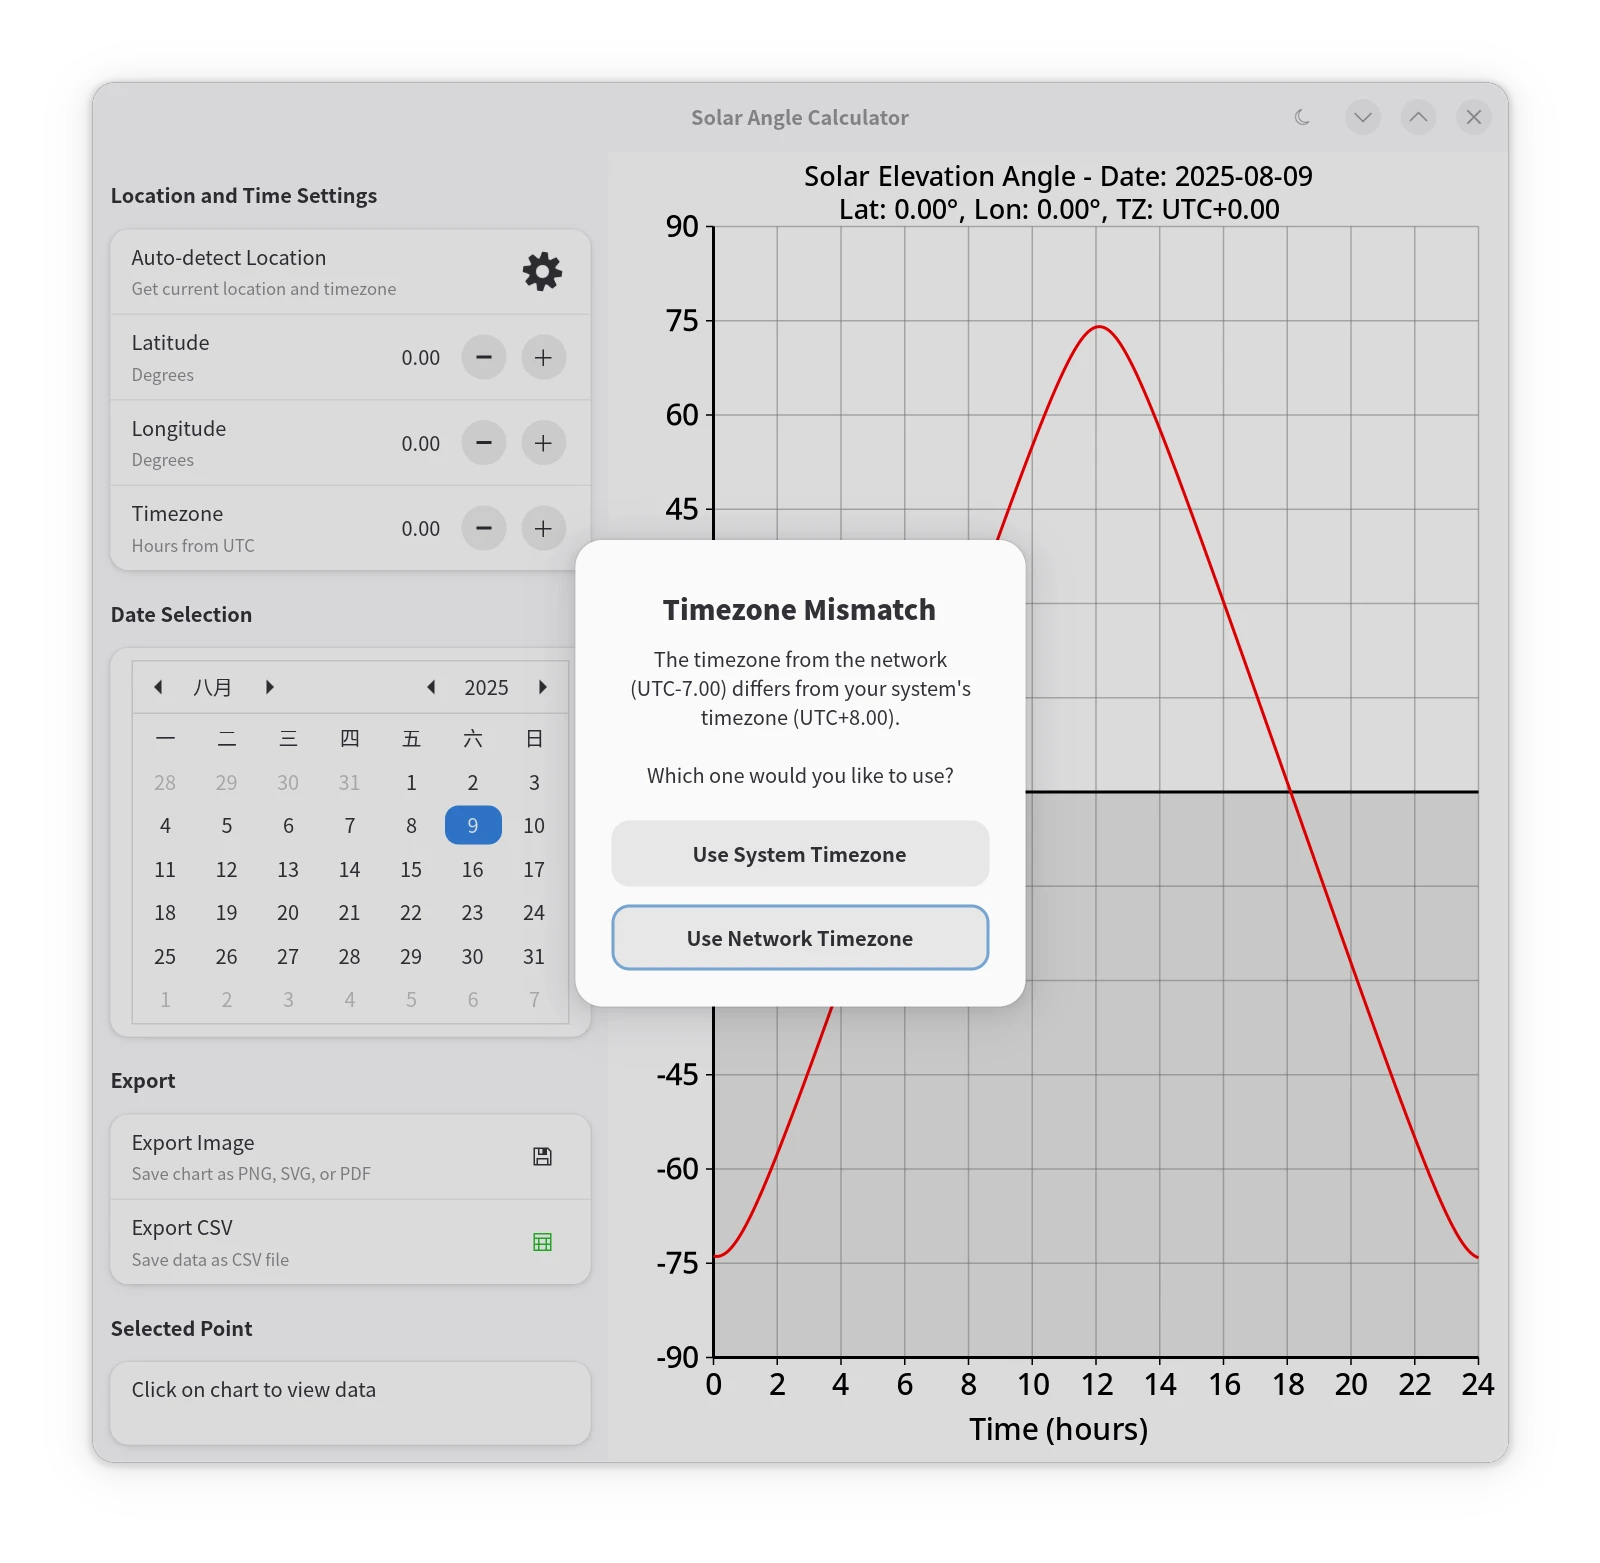
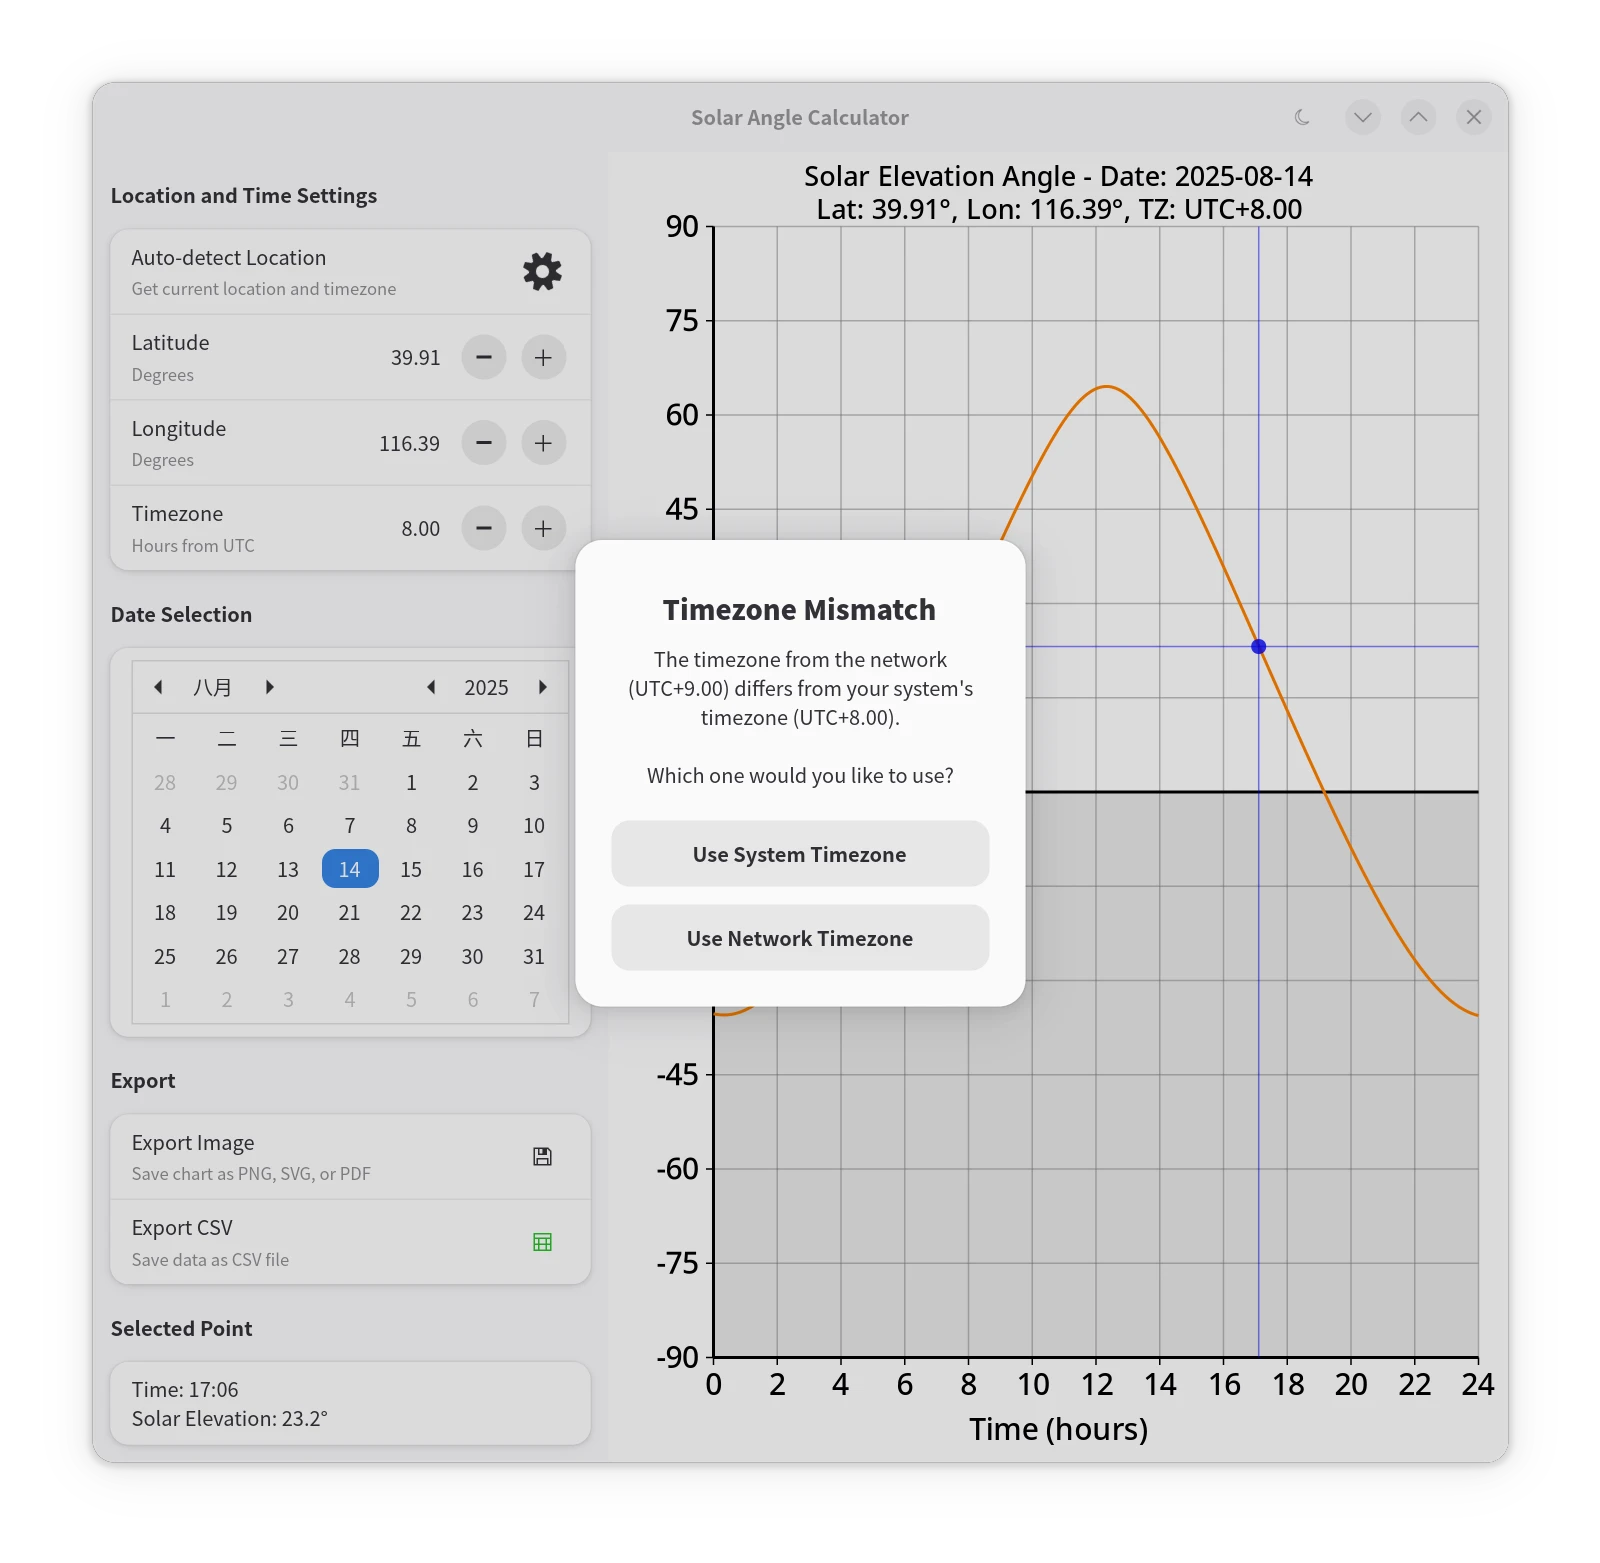
调整曲线颜色以改善图表可读性

diff --git a/_posts/2025-08-07-GTK-Vala-Tutorial-3.md b/_posts/2025-08-07-GTK-Vala-Tutorial-3.md
@@ -21,7 +21,7 @@ tags:       开源软件 GTK Vala
 
 本教程将以笔者实现的[“太阳高度角计算器”](https://github.com/wszqkzqk/FunValaGtkExamples/blob/master/solarangle.vala)的完整应用为例，深入剖析其从概念设计到功能实现的每一个环节。这个应用不仅能进行科学计算，还拥有一个使用 LibAdwaita 构建的、支持深色模式的现代化用户界面，并具备异步网络请求、JSON 解析、自定义绘图和文件导出等高级功能。
 
-| [![#~/img/GTK-examples/pku-light-solar-angle-250807.webp](/img/GTK-examples/pku-light-solar-angle-250807.webp)](/img/GTK-examples/pku-light-solar-angle-250807.webp) | [![#~/img/GTK-examples/pku-dark-solar-angle-250807.webp](/img/GTK-examples/pku-dark-solar-angle-250807.webp)](/img/GTK-examples/pku-dark-solar-angle-250807.webp) |
+| [![#~/img/GTK-examples/pku-light-solar-angle-250814.webp](/img/GTK-examples/pku-light-solar-angle-250814.webp)](/img/GTK-examples/pku-light-solar-angle-250814.webp) | [![#~/img/GTK-examples/pku-dark-solar-angle-250814.webp](/img/GTK-examples/pku-dark-solar-angle-250814.webp)](/img/GTK-examples/pku-dark-solar-angle-250814.webp) |
 | :--: | :--: |
 | 太阳高度角计算器（浅色模式）| 太阳高度角计算器（深色模式）|
 | [![#~/img/GTK-examples/fetching-location-solarangle.webp](/img/GTK-examples/fetching-location-solarangle.webp)](/img/GTK-examples/fetching-location-solarangle.webp) | [![#~/img/GTK-examples/timezone-mismatch-solarangle.webp](/img/GTK-examples/timezone-mismatch-solarangle.webp)](/img/GTK-examples/timezone-mismatch-solarangle.webp) |
@@ -510,7 +510,7 @@ public class SolarAngleApp : Adw.Application {
         grid_r: 0.5, grid_g: 0.5, grid_b: 0.5, grid_a: 0.5, // Gray grid
         axis_r: 0.0, axis_g: 0.0, axis_b: 0.0,              // Black axes
         text_r: 0.0, text_g: 0.0, text_b: 0.0,              // Black text
-        curve_r: 1.0, curve_g: 0.0, curve_b: 0.0,           // Red curve
+        curve_r: 1.0, curve_g: 0.5, curve_b: 0.0,           // Red curve
         shade_r: 0.7, shade_g: 0.7, shade_b: 0.7, shade_a: 0.3, // Light gray shade
         point_r: 0.0, point_g: 0.0, point_b: 1.0,           // Blue point
         line_r: 0.0, line_g: 0.0, line_b: 1.0, line_a: 0.5  // Blue guide lines
@@ -522,7 +522,7 @@ public class SolarAngleApp : Adw.Application {
         grid_r: 0.5, grid_g: 0.5, grid_b: 0.5, grid_a: 0.5, // Light gray grid
         axis_r: 1.0, axis_g: 1.0, axis_b: 1.0,              // White axes
         text_r: 1.0, text_g: 1.0, text_b: 1.0,              // White text
-        curve_r: 1.0, curve_g: 0.0, curve_b: 0.0,           // Bright red curve
+        curve_r: 1.0, curve_g: 0.5, curve_b: 0.0,           // Bright red curve
         shade_r: 0.3, shade_g: 0.3, shade_b: 0.3, shade_a: 0.7, // Dark gray shade
         point_r: 0.3, point_g: 0.7, point_b: 1.0,           // Light blue point
         line_r: 0.3, line_g: 0.7, line_b: 1.0, line_a: 0.7  // Light blue guide lines
